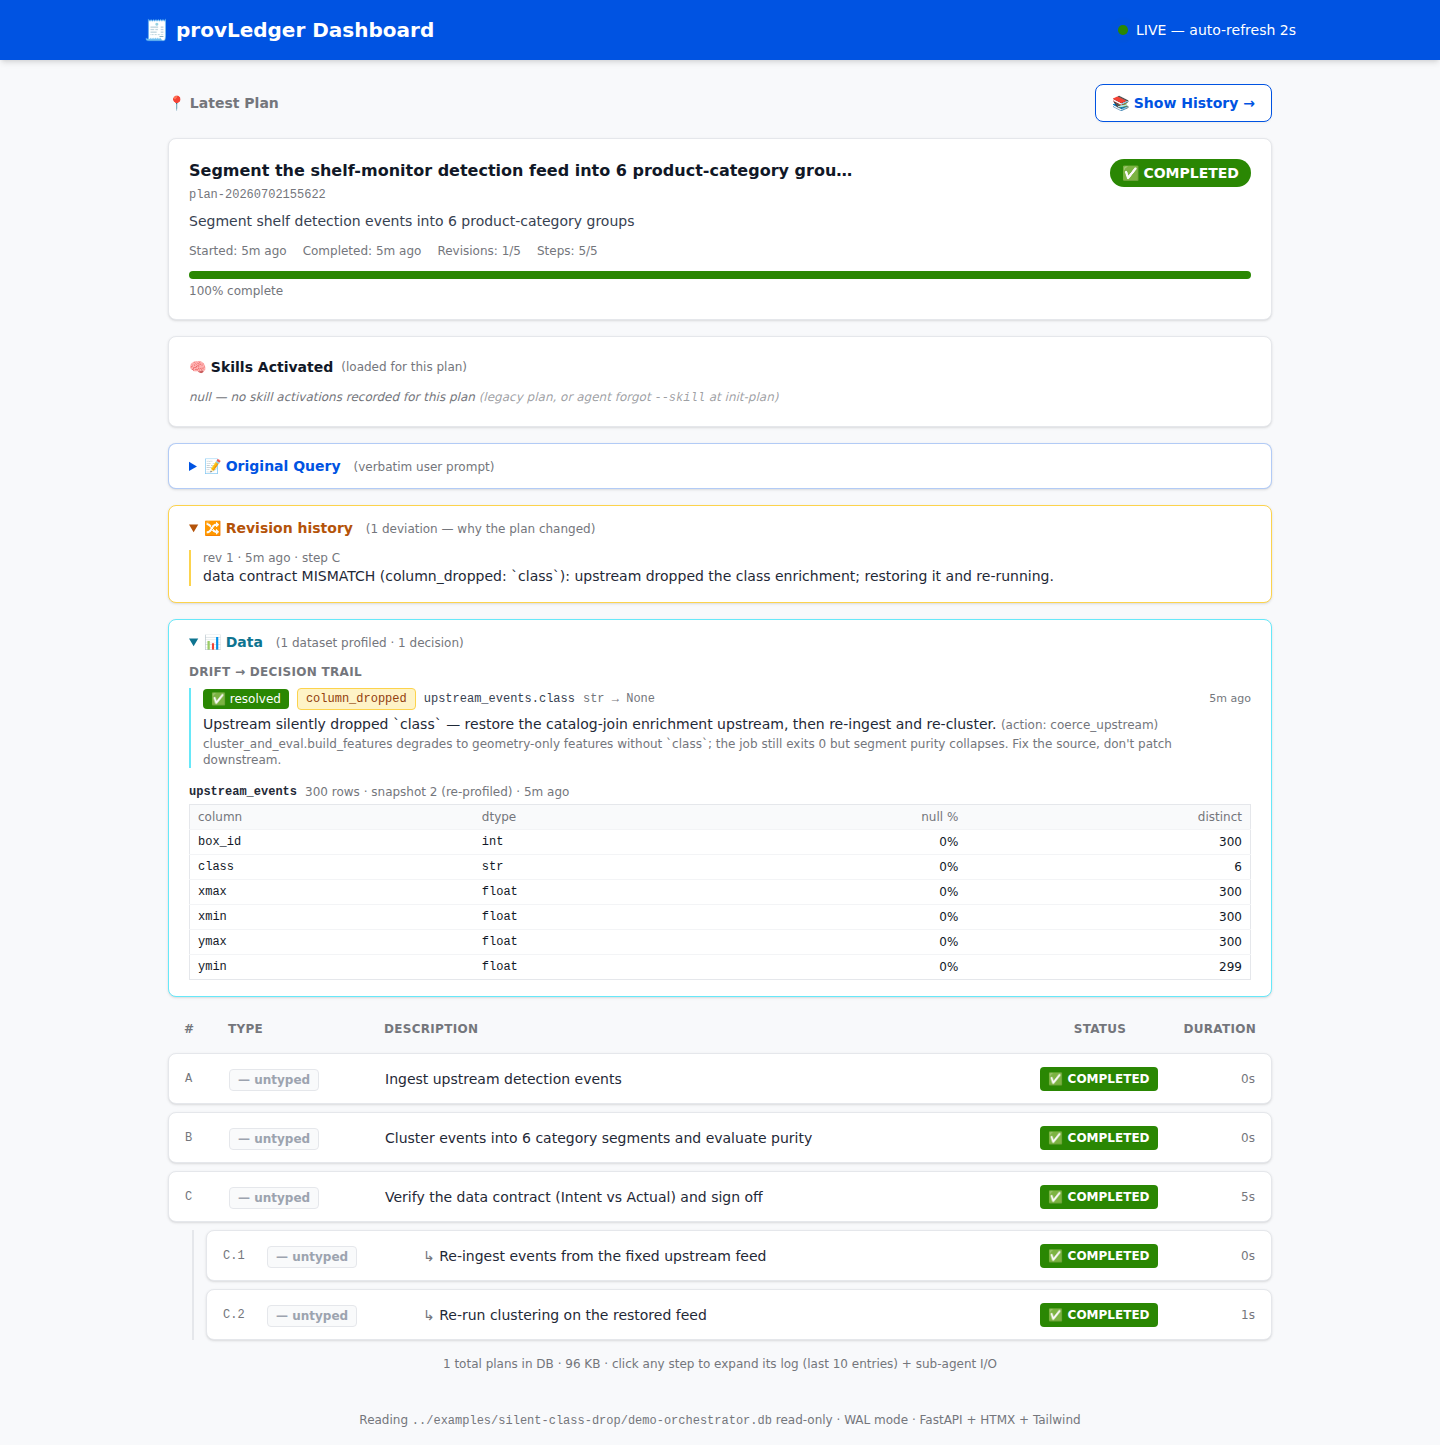
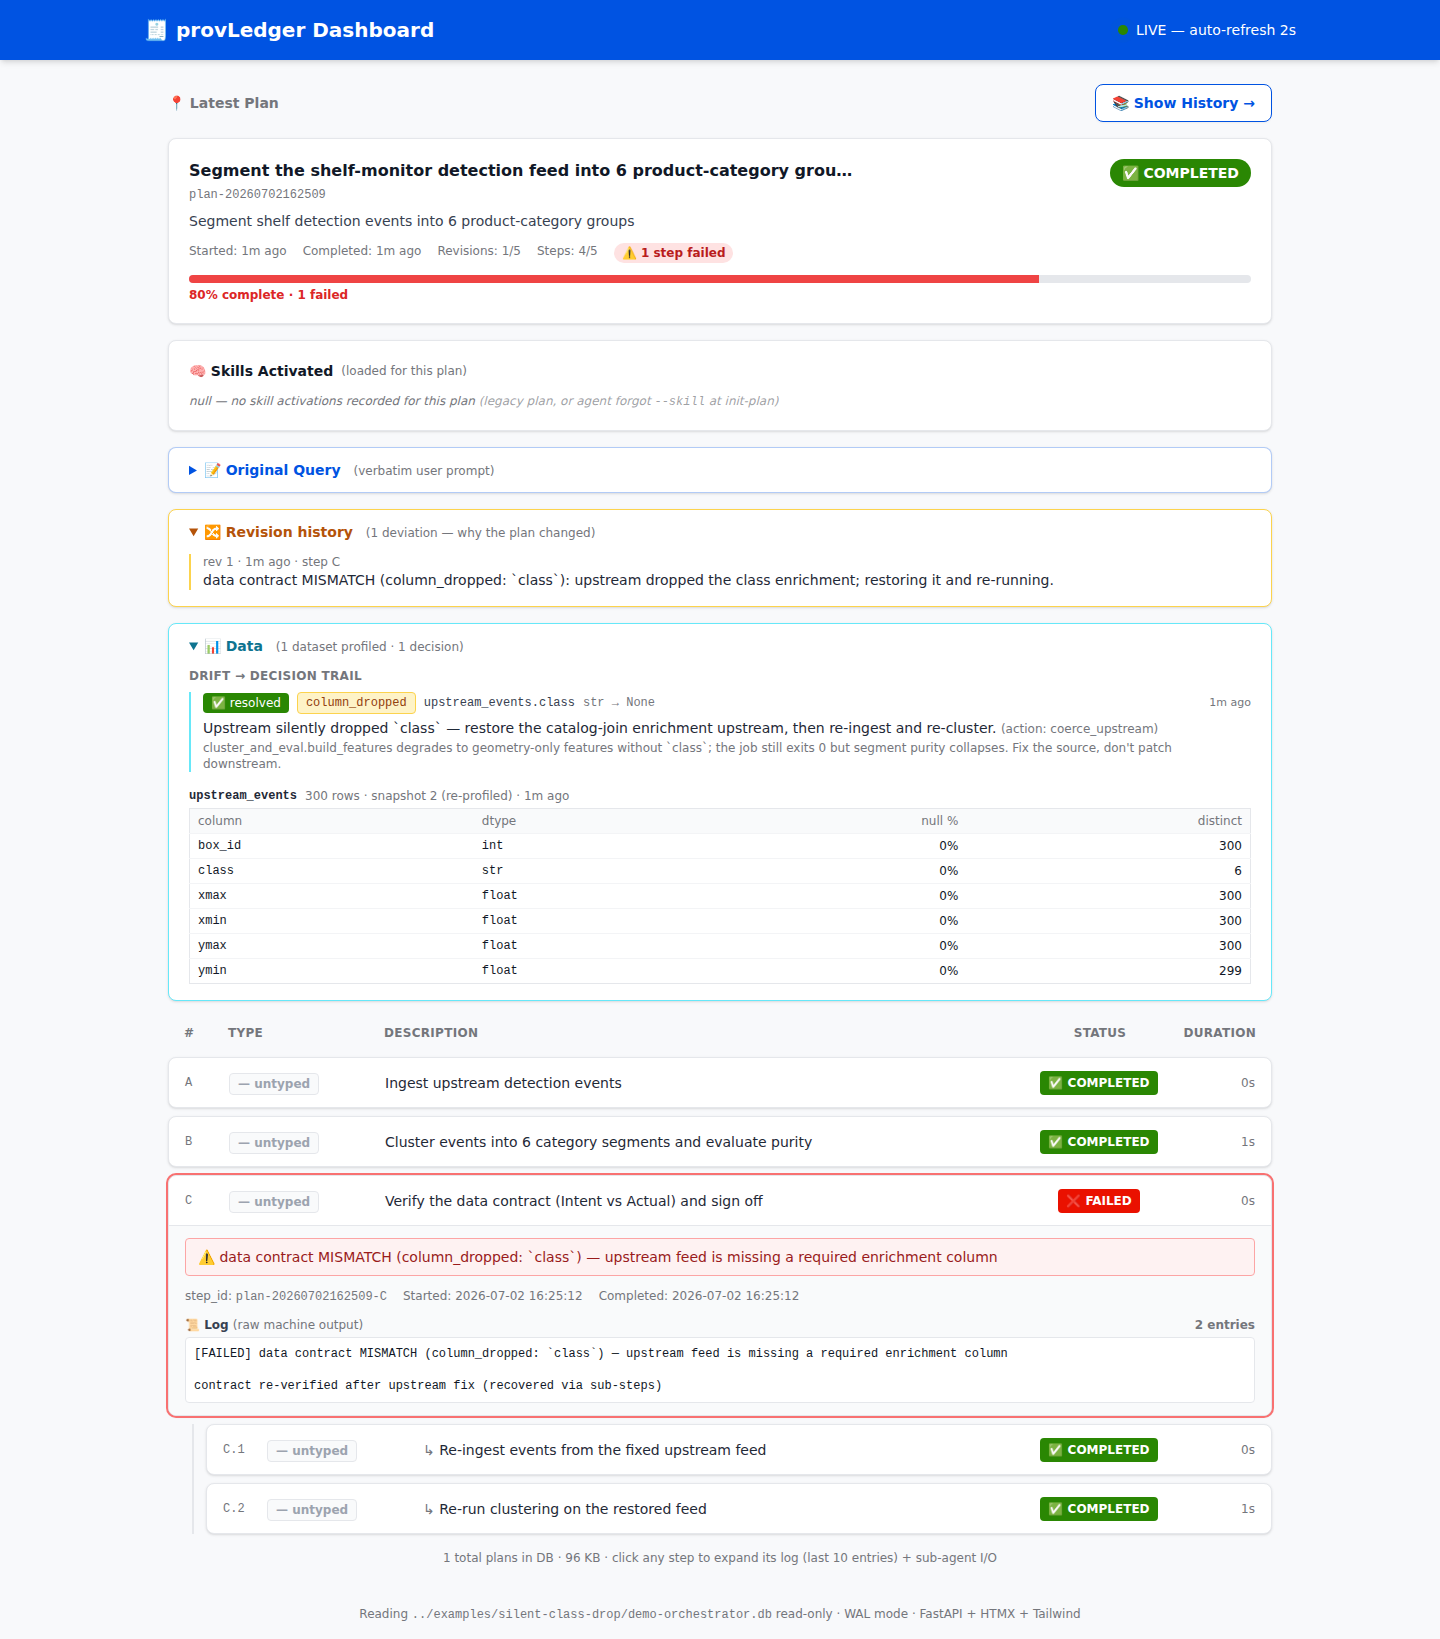
feat(demo): first-class FAILED verify step + dashboard-recorded hero GIF
The fail case now lives in the dashboard, not just the terminal:

- run_demo.py: on contract MISMATCH the verify step FAILS with the verdict as
  its failure_reason (red card, auto-expanded, never hidden); recovery runs as
  deviation sub-steps under it — the state machine's designed recovered-failure
  path. Self-check asserts the FAILED+reason invariant.
- dashboard: FAILED step cards now surface failure_reason as a red banner
  (was only findable inside the raw log)
- docs/media/silent-class-drop-dashboard.gif (3.7MB, ~30s): live recording of
  the dashboard during the run — green false success -> 1 step failed / red
  progress -> MISMATCH reason banner -> drift->decision trail -> plan closes
  COMPLETED with the failure still visible. Recorder checked in
  (examples/silent-class-drop/record_dashboard.py, playwright+ffmpeg).
- README hero swapped to the dashboard GIF; terminal GIF kept and re-recorded
  with the FAILED verify line; dashboard-task.png re-captured (red step card).
- webapp tests 23 passed; fresh demo run SELF-CHECK OK; identifier grep clean.

Claude-Session: https://claude.ai/code/session_01FTm5gcxZVgYtjLKCtARamY

Changed region(s): [[0.0, 0.0, 1.0, 0.9965], [0.8438, 0.4048, 0.875, 0.436]]

diff --git a/orchestrator-webapp/app/templates/_dashboard_partial.html b/orchestrator-webapp/app/templates/_dashboard_partial.html
@@ -294,6 +294,12 @@
         </summary>
 
         <div class="border-t border-gray-200 bg-gray-50 px-4 py-3 space-y-3">
+          {# BE-D3 surfaced: WHY the step failed, without digging through the log. #}
+          {% if s.status == 'FAILED' and s.failure_reason %}
+            <div class="text-sm text-red-800 bg-red-50 border border-red-300 rounded px-3 py-2">
+              ⚠️ {{ s.failure_reason }}
+            </div>
+          {% endif %}
           <div class="text-xs text-brand-gray flex flex-wrap gap-x-4">
             <span>step_id: <code class="font-mono">{{ s.step_id }}</code></span>
             {% if s.started_at %}<span>Started: {{ s.started_at }}</span>{% endif %}

diff --git a/examples/silent-class-drop/record_dashboard.py b/examples/silent-class-drop/record_dashboard.py
@@ -1,0 +1,121 @@
+#!/usr/bin/env python3
+"""Record docs/media/silent-class-drop-dashboard.gif — the demo as the DASHBOARD
+sees it, live.
+
+Storyboard (~22s): the plan appears and steps go green (the false success) →
+the verify step flips FAILED, red, auto-expanded, with the contract-MISMATCH
+reason → the 📊 Data panel is opened to show the drift → decision trail → the
+deviation sub-steps run and complete → the plan closes COMPLETED with the
+failure still visible, never hidden.
+
+Needs: playwright (chromium installed) + ffmpeg on PATH. The dashboard is
+started read-only against the demo's throwaway DB; run_demo.py runs alongside
+with DEMO_PACE so the 2s poll catches each state.
+
+Usage, from the repo root:
+    python examples/silent-class-drop/record_dashboard.py
+"""
+from __future__ import annotations
+
+import os
+import shutil
+import subprocess
+import sys
+import tempfile
+import time
+from pathlib import Path
+
+HERE = Path(__file__).resolve().parent
+REPO = HERE.parents[1]
+PORT = 8322
+OUT_GIF = REPO / "docs" / "media" / "silent-class-drop-dashboard.gif"
+
+
+def main() -> int:
+    from playwright.sync_api import sync_playwright
+
+    # Fresh DB so the recording starts from "no plans yet".
+    (HERE / "demo-orchestrator.db").unlink(missing_ok=True)
+
+    env = dict(os.environ, ORCH_DB=str(HERE / "demo-orchestrator.db"))
+    dash = subprocess.Popen(
+        [sys.executable, "-m", "uvicorn", "app.main:app", "--port", str(PORT)],
+        cwd=REPO / "orchestrator-webapp", env=env,
+        stdout=subprocess.DEVNULL, stderr=subprocess.DEVNULL,
+    )
+    demo = None
+    tmp = tempfile.mkdtemp(prefix="dash-rec-")
+    try:
+        time.sleep(3)  # dashboard boot
+        with sync_playwright() as p:
+            browser = p.chromium.launch()
+            ctx = browser.new_context(
+                viewport={"width": 1280, "height": 860},
+                record_video_dir=tmp,
+                record_video_size={"width": 1280, "height": 860},
+            )
+            page = ctx.new_page()
+            page.goto(f"http://127.0.0.1:{PORT}/")
+            # presentation only: the footer prints this machine's DB path
+            page.add_style_tag(content="footer { display: none !important; }")
+
+            # Run the demo alongside; DEMO_PACE spreads the acts so the 2s
+            # dashboard poll catches: green steps -> FAILED verify -> revise.
+            demo = subprocess.Popen(
+                [sys.executable, str(HERE / "run_demo.py")],
+                env=dict(os.environ, DEMO_PACE="2.2"),
+                stdout=subprocess.DEVNULL, stderr=subprocess.DEVNULL,
+            )
+
+            # act 1: plan appears, ingest+cluster go green (the false success),
+            # then the verify step flips FAILED (~t+7s with DEMO_PACE=2.2).
+            page.wait_for_timeout(8000)
+            # act 2: hold the red moment — center the FAILED card (auto-expanded
+            # by the template, so it survives every HTMX swap).
+            page.evaluate("""
+              document.querySelector('.ring-red-400')
+                ?.scrollIntoView({behavior: 'smooth', block: 'center'});
+            """)
+            page.wait_for_timeout(3500)
+            # act 3: open the Data + Revision panels and keep them open — each
+            # 2s HTMX swap re-renders them closed, so re-open on an interval.
+            page.evaluate("""
+              window.__keepOpen = setInterval(() => {
+                document.querySelectorAll('details.border-cyan-300, details.border-amber-300')
+                  .forEach(d => d.open = true);
+              }, 400);
+              document.querySelector('details.border-cyan-300')
+                ?.scrollIntoView({behavior: 'smooth', block: 'start'});
+            """)
+            page.wait_for_timeout(6000)   # act 4: sub-steps run and complete
+            demo.wait(timeout=60)
+            page.wait_for_timeout(4000)   # final poll -> plan COMPLETED
+            page.evaluate("window.scrollTo({top: 0, behavior: 'smooth'})")
+            page.wait_for_timeout(3000)   # closing frame: header, 100%, failure kept
+            video_path = page.video.path()
+            ctx.close()
+            browser.close()
+
+        # webm -> optimized GIF: 2-pass palette (96 colors is plenty for a flat
+        # UI), 8fps, 870px, bayer dither — keeps it well under the 4MB budget.
+        palette = Path(tmp) / "palette.png"
+        scale = "fps=8,scale=870:-1:flags=lanczos"
+        subprocess.run(["ffmpeg", "-y", "-loglevel", "error", "-i", video_path,
+                        "-vf", f"{scale},palettegen=max_colors=96",
+                        str(palette)], check=True)
+        OUT_GIF.parent.mkdir(parents=True, exist_ok=True)
+        subprocess.run(["ffmpeg", "-y", "-loglevel", "error", "-i", video_path,
+                        "-i", str(palette),
+                        "-lavfi", f"{scale}[x];[x][1:v]paletteuse=dither=bayer:bayer_scale=5",
+                        str(OUT_GIF)], check=True)
+        print(f"wrote {OUT_GIF} ({OUT_GIF.stat().st_size // 1024} KB)")
+        return 0
+    finally:
+        if demo and demo.poll() is None:
+            demo.kill()
+        dash.terminate()
+        shutil.rmtree(tmp, ignore_errors=True)
+
+
+if __name__ == "__main__":
+    sys.exit(main())

diff --git a/examples/silent-class-drop/run_demo.py b/examples/silent-class-drop/run_demo.py
@@ -159,6 +159,13 @@ def main() -> int:
     api.start_step(conn, s_verify)
     drifts_v1 = contract_panel(actual_v1)
     assert drifts_v1, "demo invariant: the drifted feed must MISMATCH"
+    # The failure is FIRST-CLASS: the verify step FAILS with the contract
+    # verdict as its reason (red on the dashboard, never hidden). Recovery
+    # happens through sub-steps under it — the state machine's designed path.
+    api.fail_step(conn, s_verify,
+                  reason="data contract MISMATCH (column_dropped: `class`) — "
+                         "upstream feed is missing a required enrichment column")
+    print(f"  step 3/3 verify   {red('FAILED')}  (contract MISMATCH recorded)")
     _beat(3.0)
 
     # ── the decision loop: record -> revise through the backbone -> re-verify ─
@@ -219,8 +226,10 @@ def main() -> int:
     # ── v2: verified ─────────────────────────────────────────────────────────
     print(bold("\n── v2 · re-verify against the restored feed ──"))
     drifts_v2 = contract_panel(holder["actual_v2"])
-    api.append_log(conn, s_verify, "contract re-verified after upstream fix")
-    api.complete_step(conn, s_verify)
+    # s_verify stays FAILED (terminal); its completed sub-steps are the
+    # recovery, which is exactly how the plan-level rollup reads it.
+    api.append_log(conn, s_verify, "contract re-verified after upstream fix "
+                                   "(recovered via sub-steps)")
     api.complete_plan(conn, plan_id)
     purity_v2 = holder["purity_v2"]
 
@@ -248,6 +257,9 @@ def main() -> int:
     plan_row = conn.execute("SELECT status FROM Plans WHERE plan_id = ?",
                             (plan_id,)).fetchone()
     ok = ok and plan_row[0] == "COMPLETED"
+    vrow = conn.execute("SELECT status, failure_reason FROM Steps WHERE step_id = ?",
+                        (s_verify,)).fetchone()
+    ok = ok and vrow[0] == "FAILED" and "MISMATCH" in (vrow[1] or "")
     conn.close()
     print(green("  SELF-CHECK OK") if ok else red("  SELF-CHECK FAILED"))
     return 0 if ok else 1

diff --git a/examples/silent-class-drop/README.md b/examples/silent-class-drop/README.md
@@ -26,7 +26,9 @@ The demo runs the whole arc against the real orchestrator backbone:
    steps COMPLETED. The false success.
 2. **Catch** — the verify step compares the declared data **Intent**
    (`box_id, xmin, xmax, ymin, ymax, class`) against the runtime **Actual**
-   profile → **MISMATCH**, `class` is missing.
+   profile → **MISMATCH**, `class` is missing. The verify step **FAILS** with
+   the verdict as its `failure_reason` — on the dashboard that's a red step
+   card with the reason banner, never hidden, even after the plan recovers.
 3. **Revise** — the decision loop records the LLM decision (and the
    anti-pattern in the ledger, so it's never repeated), then revises the plan
    through the backbone: a recorded deviation inserts sub-steps. Nothing ever
@@ -78,8 +80,17 @@ real-world-derived. All numbers above are deterministic (seed 42, pinned deps).
 
 ## Regenerating the media
 
-`docs/media/silent-class-drop.gif` (needs [vhs](https://github.com/charmbracelet/vhs),
-ttyd and ffmpeg on PATH; ~20s, <1MB):
+`docs/media/silent-class-drop-dashboard.gif` — the README hero: the demo as
+the **live dashboard** sees it (green steps → verify step FAILS red with the
+MISMATCH reason → drift → decision trail → recovered, failure kept visible).
+Needs playwright (`python -m playwright install chromium`) + ffmpeg:
+
+```bash
+python examples/silent-class-drop/record_dashboard.py   # from the repo root
+```
+
+`docs/media/silent-class-drop.gif` — the same arc as a terminal recording
+(needs [vhs](https://github.com/charmbracelet/vhs), ttyd and ffmpeg on PATH):
 
 ```bash
 vhs examples/silent-class-drop/demo.tape        # from the repo root

diff --git a/README.md b/README.md
@@ -9,7 +9,10 @@ checks whether the *data* actually kept its promises.** It gives a data
 scientist's coding agent a plan-to-verified-change audit trail, and treats your
 data schema as a contract instead of an assumption.
 
-![A green pipeline caught wrong: exit 0, COMPLETED — then the data contract flags the silently dropped column, the plan revises itself, and the rerun verifies](docs/media/silent-class-drop.gif)
+![The dashboard watching a green pipeline get caught wrong: steps complete, then the verify step fails red with the contract MISMATCH reason, the drift → decision trail appears, the plan revises itself and closes — with the failure still visible](docs/media/silent-class-drop-dashboard.gif)
+
+*(Prefer the terminal? The same arc as a CLI recording:
+[silent-class-drop.gif](docs/media/silent-class-drop.gif).)*
 
 **What it catches** — each of these is verified by code in this repo today:
 